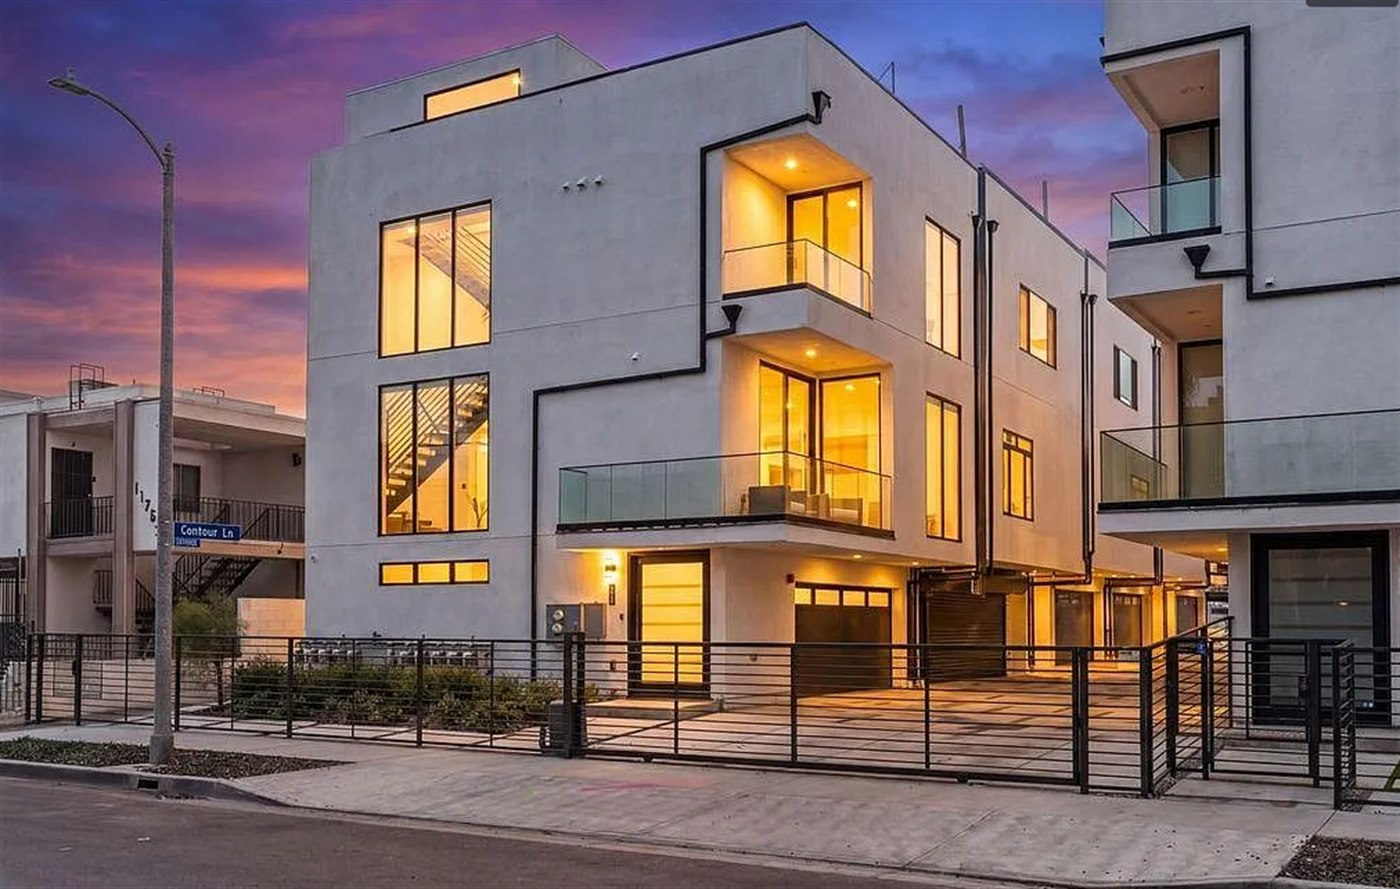
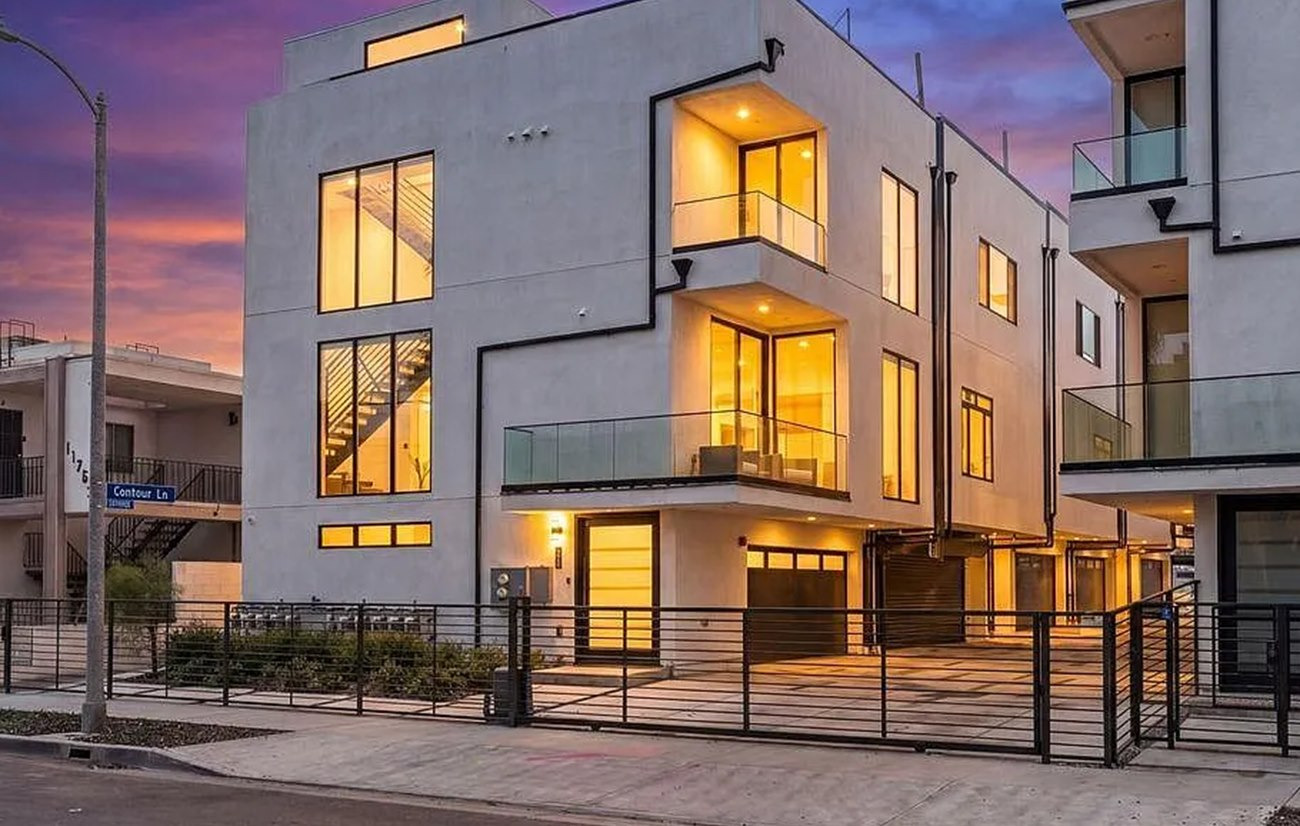
Waterfall to 17,389 SF (reconcile w/ page 13, $11.30M gross); remove Do-Nothing KPI p22; crop Contour photo margins

diff --git a/index.html b/index.html
@@ -300,7 +300,7 @@
         </div>
         <div>
           <div class="micro" style="margin-bottom: 16px;">03 / Residual</div>
-          <p class="body">$650/SF base-case exit drives an $11.95M gross sellout and a $2.0M residual land value after a $7.37M cost stack — a clean strike right at the $2.0M asking price.</p>
+          <p class="body">$650/SF base-case exit drives an $11.30M gross sellout and a $2.0M residual land value after a $7.37M cost stack — a clean strike right at the $2.0M asking price.</p>
         </div>
       </div>
       <div class="footer"><span>6540 N Shoup Avenue · West Hills</span><span>Investment Thesis</span></div>
@@ -575,11 +575,11 @@
           </tr>
         </thead>
         <tbody>
-          <tr><td>Gross sellout &mdash; homes + ADUs</td><td>18,385 SF × $650/SF</td><td class="num">$11,950,250</td></tr>
-          <tr><td>Less: marketing &amp; sales</td><td>5.0%</td><td class="num">($597,513)</td></tr>
-          <tr class="subtotal"><td>Net revenue</td><td></td><td class="num">$11,352,737</td></tr>
+          <tr><td>Gross sellout &mdash; homes + ADUs</td><td>17,389 SF × $650/SF</td><td class="num">$11,302,850</td></tr>
+          <tr><td>Less: marketing &amp; sales</td><td>5.0%</td><td class="num">($565,143)</td></tr>
+          <tr class="subtotal"><td>Net revenue</td><td></td><td class="num">$10,737,707</td></tr>
           <tr><td>Less: total development cost</td><td>ex-land</td><td class="num">($7,368,750)</td></tr>
-          <tr><td>Less: developer profit</td><td>balance to developer</td><td class="num">($1,983,987)</td></tr>
+          <tr><td>Less: developer profit</td><td>balance to developer</td><td class="num">($1,368,957)</td></tr>
           <tr class="total"><td>Residual land value (base case)</td><td>$96 / lot SF</td><td class="num">$2,000,000</td></tr>
         </tbody>
       </table>
@@ -592,8 +592,8 @@
         </div>
         <div>
           <div class="micro" style="margin-bottom: 10px;">Gross Sellout</div>
-          <div style="font-family: var(--serif); font-weight: 300; font-size: 44px; line-height: 1; color: var(--ink);">$11.95M</div>
-          <div class="small" style="margin-top: 6px;">homes + ADUs · 18,385 SF @ $650</div>
+          <div style="font-family: var(--serif); font-weight: 300; font-size: 44px; line-height: 1; color: var(--ink);">$11.30M</div>
+          <div class="small" style="margin-top: 6px;">homes + ADUs · 17,389 SF @ $650</div>
         </div>
         <div>
           <div class="micro" style="margin-bottom: 10px;">Strike at Residual</div>
@@ -851,11 +851,6 @@
           <div class="label">Total Dev Cost</div>
           <div class="value">$7.37<span style="font-size:32px; color:var(--muted);">M</span></div>
           <div class="sub">Hard, soft &amp; carry — ex-land</div>
-        </div>
-        <div class="kpi">
-          <div class="label">"Do Nothing" Value</div>
-          <div class="value">~$950K</div>
-          <div class="sub">As-is SFR resale (per 6414 Shoup)</div>
         </div>
       </div>
       <div style="flex:1;"></div>
